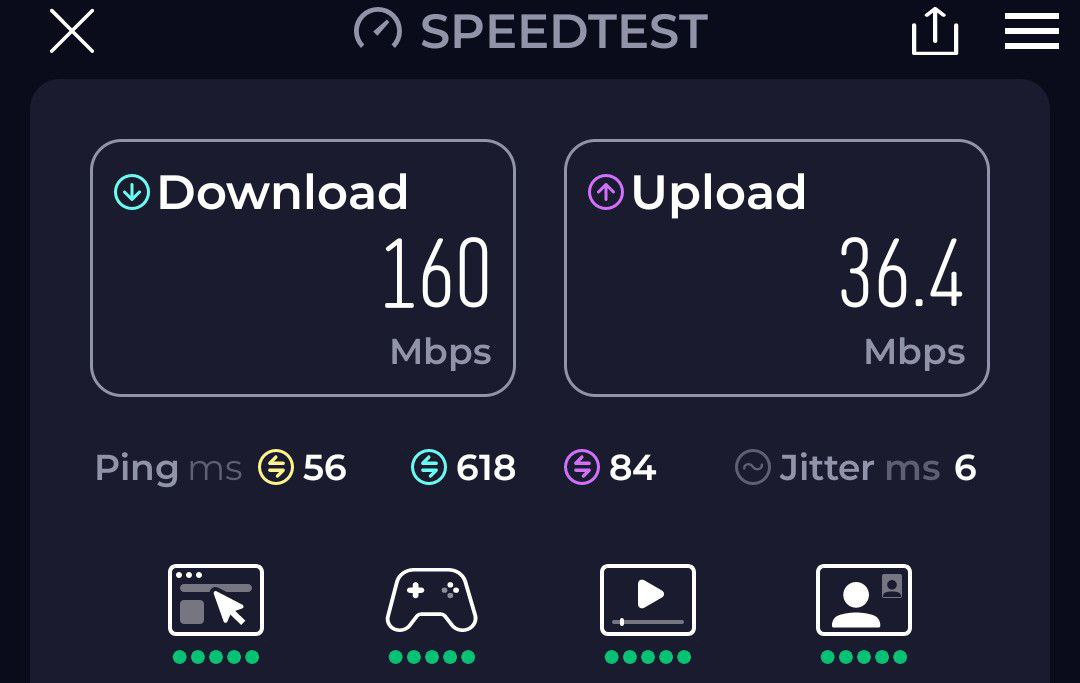
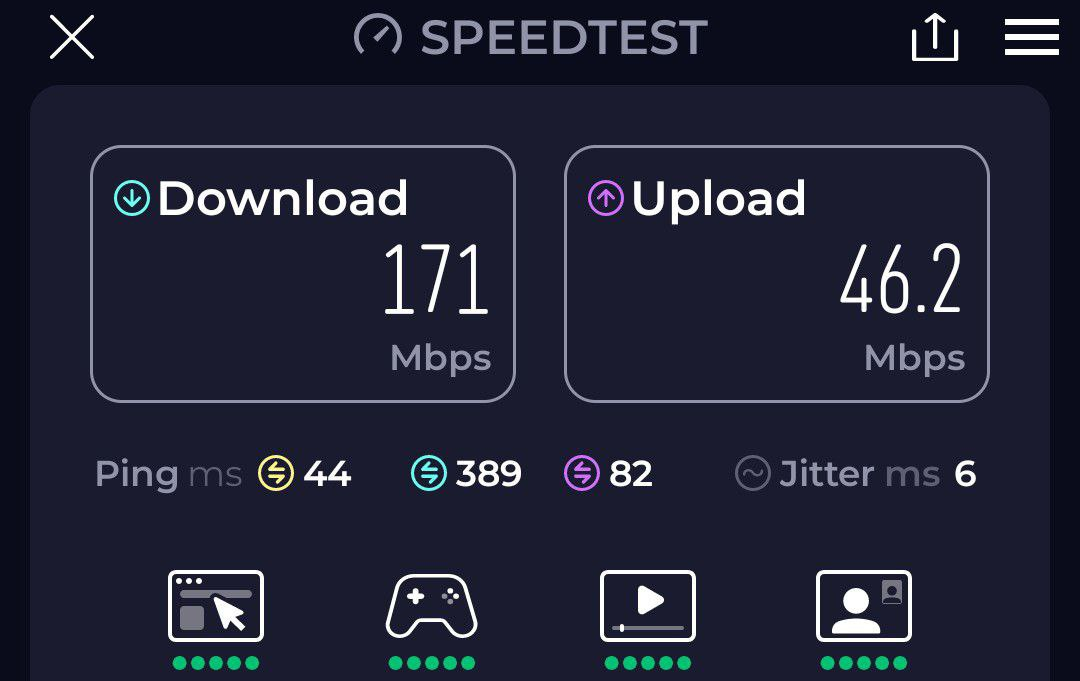
Speedtest update

diff --git a/README.md b/README.md
@@ -29,7 +29,7 @@ curl -O https://raw.githubusercontent.com/mareksagan/AlpineVPN/main/alpine-wireg
 
 ## Performance Test
 
-Real-world speed testing demonstrates excellent throughput even on minimal hardware. On the **smallest Linode Nanode instance** (1 vCPU, 1GB RAM), AlpineVPN achieves **160 Mbps** download speeds when connected from a smartphone client.
+Real-world speed testing demonstrates excellent throughput even on minimal hardware. On the **smallest Linode Nanode instance** (1 vCPU, 1GB RAM), AlpineVPN achieves **~170 Mbps** download speeds when connected from a smartphone client.
 
 <img src="speedtest.jpg" alt="Speed Test" width="50%">
 
